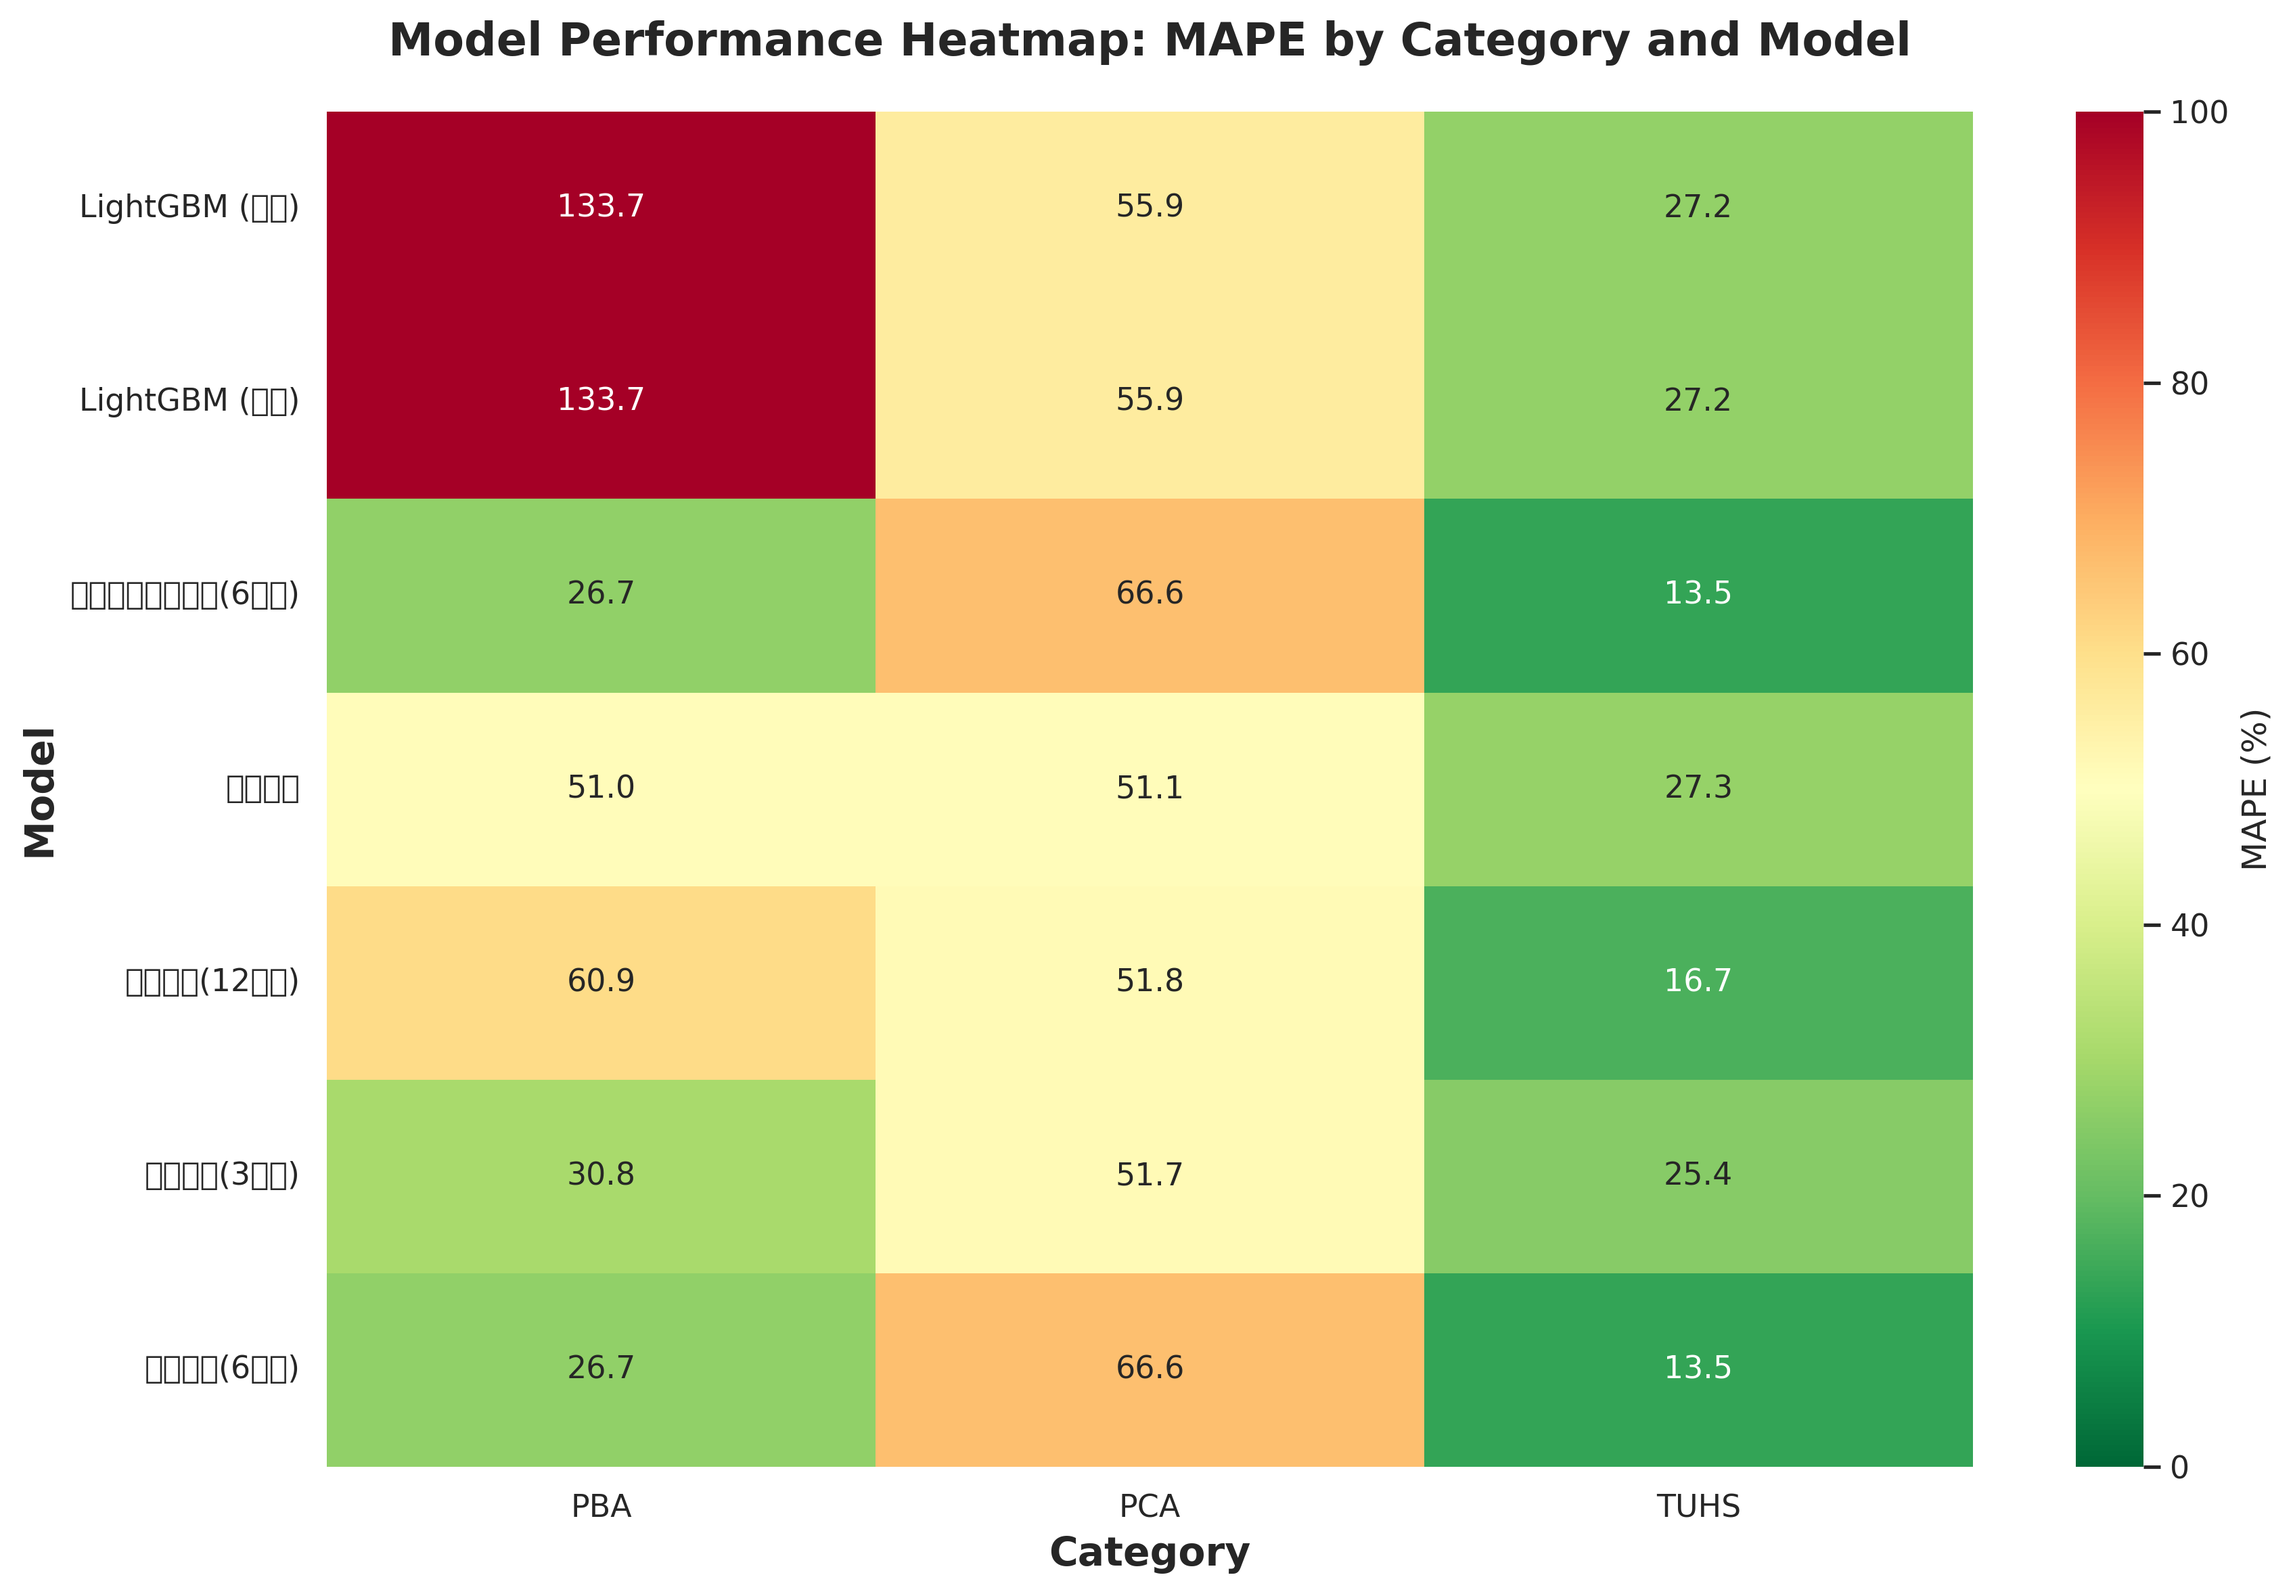
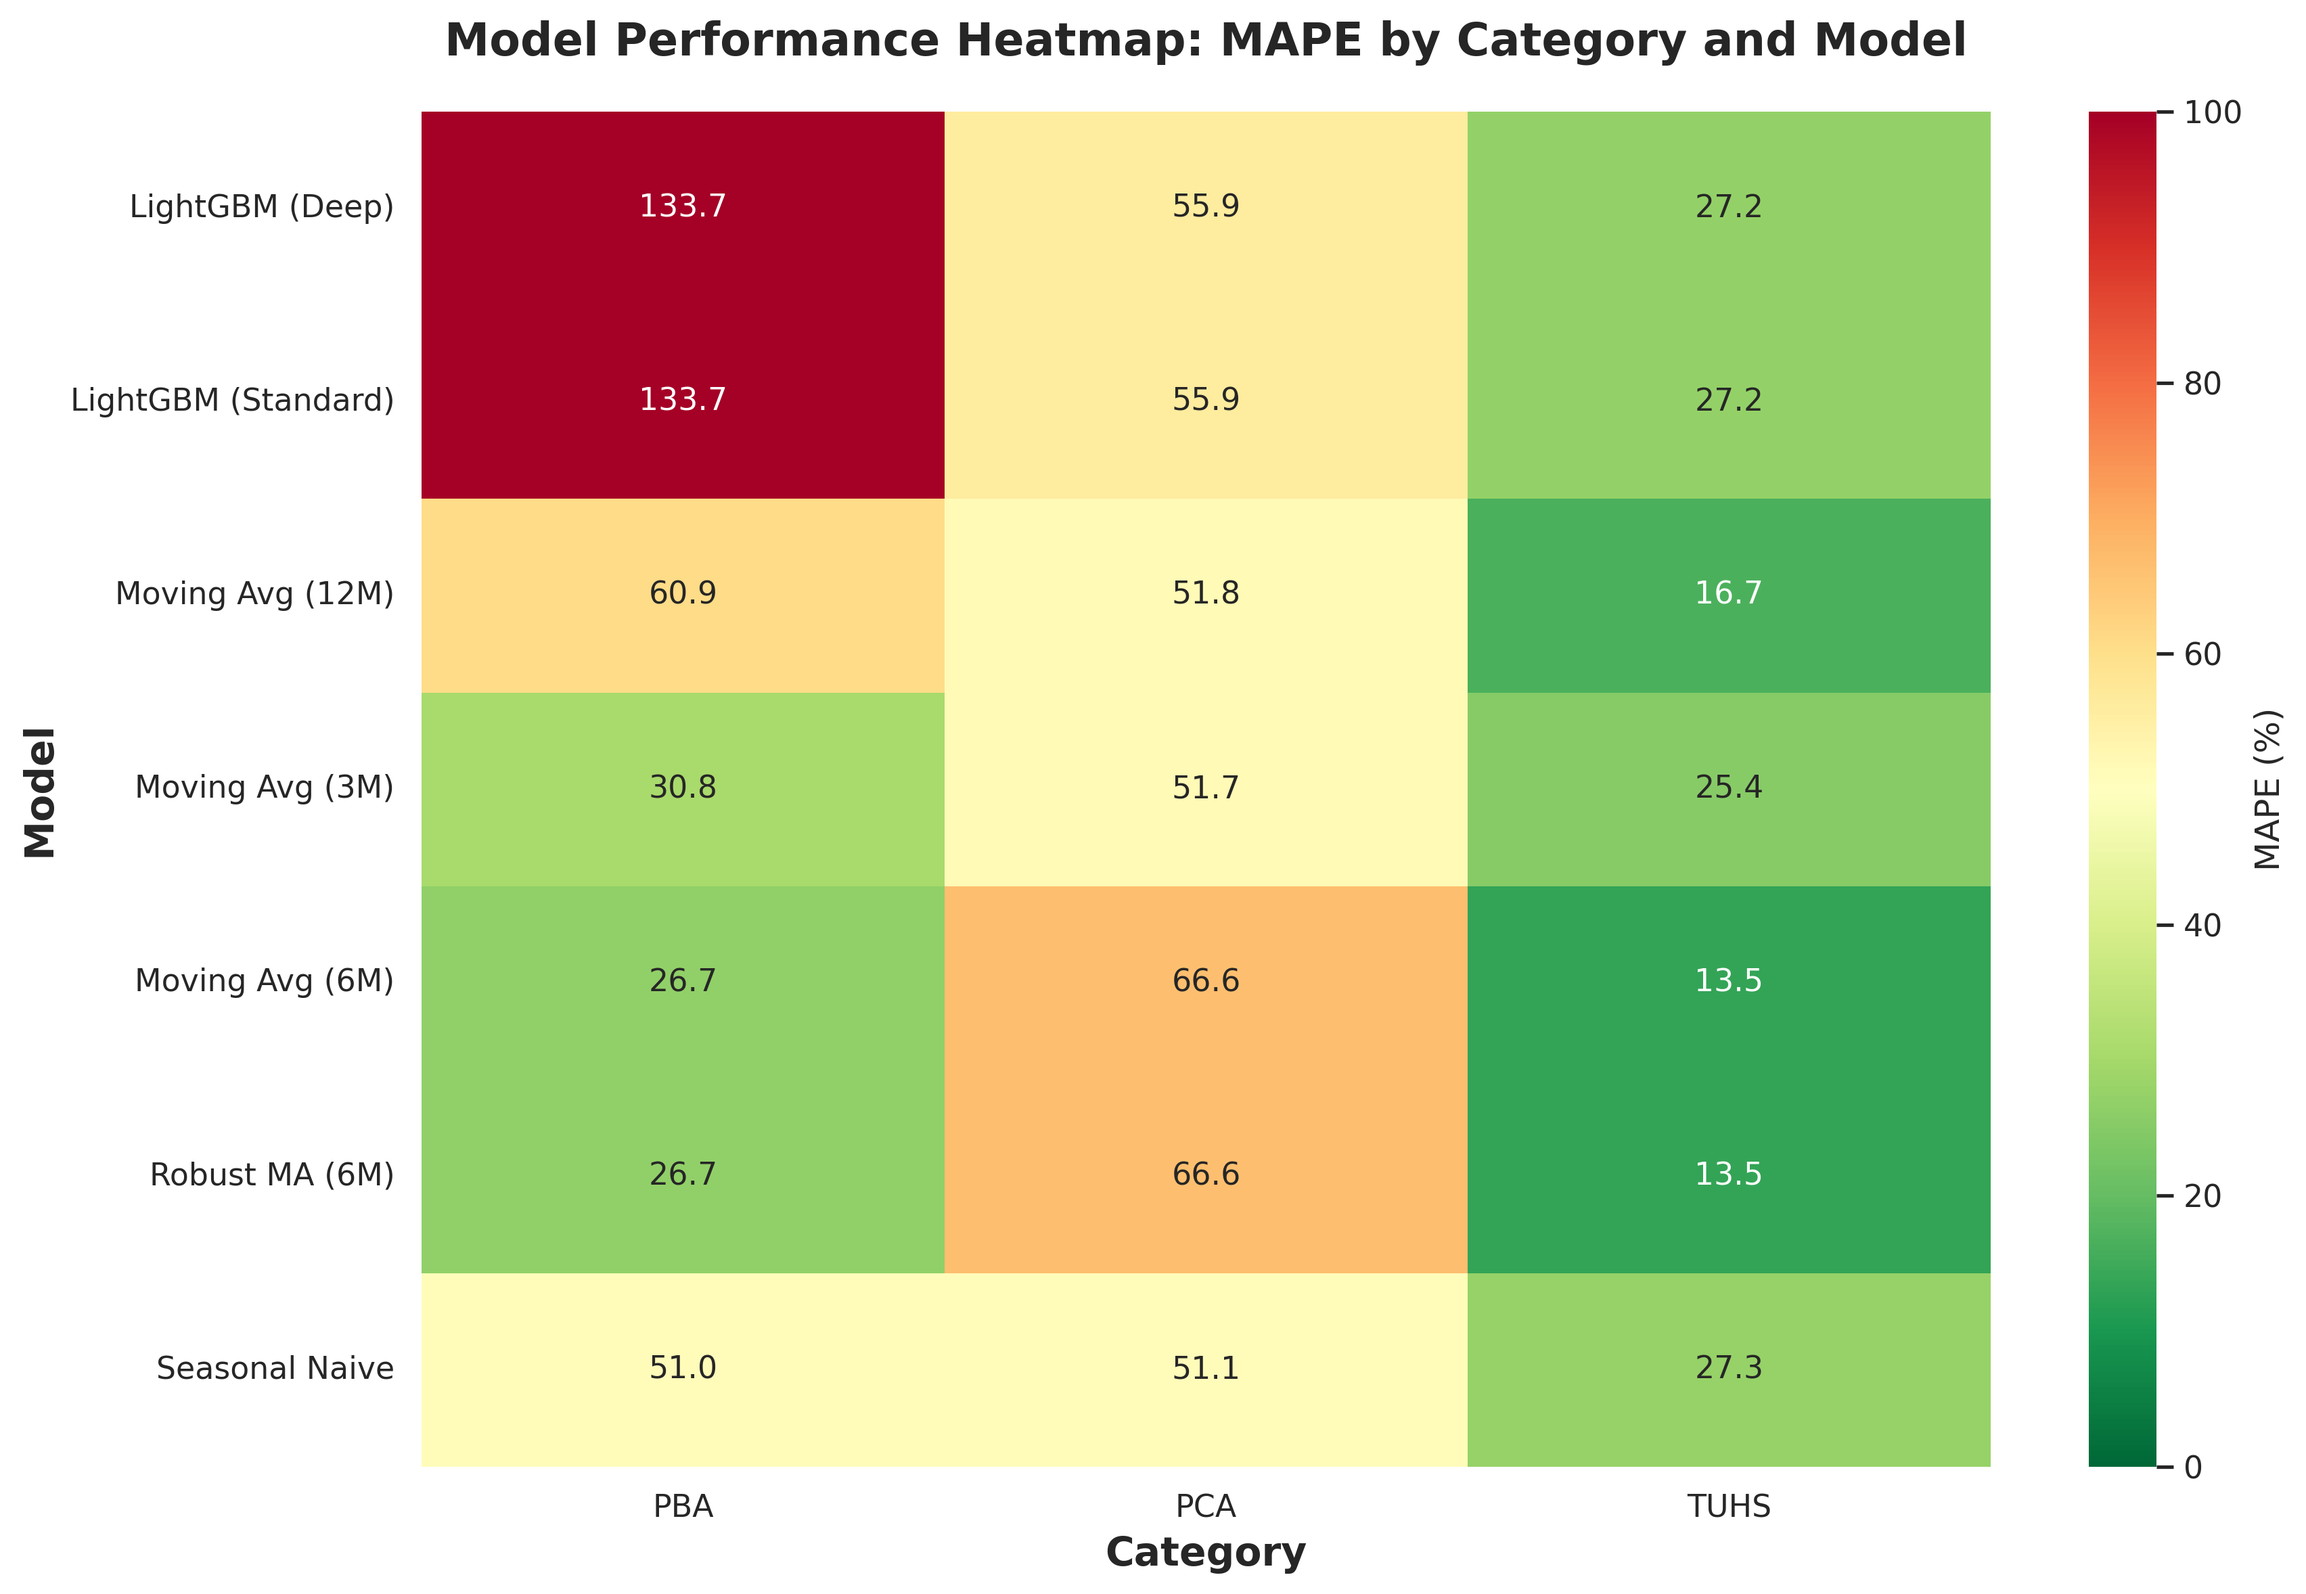
ヒートマップのモデル名を英語表記に修正
overall_heatmap.pngの縦軸（Model）に表示されるモデル名が文字化けしていた問題を修正しました。

修正内容:
- CSVから読み込んだ日本語のモデル名を英語に変換するマッピングを追加
- マッピング: 移動平均 → Moving Avg, 前年同月 → Seasonal Naive, など
- ヒートマップを含む全グラフを再生成

🤖 Generated with [Claude Code](https://claude.com/claude-code)

diff --git a/create_visualizations.py b/create_visualizations.py
@@ -236,6 +236,18 @@ def plot_overall_summary(save_dir: Path):
         print("  評価結果CSVが見つかりません")
         return
 
+    # モデル名を英語に変換
+    model_name_mapping = {
+        '移動平均(3か月)': 'Moving Avg (3M)',
+        '移動平均(6か月)': 'Moving Avg (6M)',
+        '移動平均(12か月)': 'Moving Avg (12M)',
+        'ロバスト移動平均(6か月)': 'Robust MA (6M)',
+        '前年同月': 'Seasonal Naive',
+        'LightGBM (標準)': 'LightGBM (Standard)',
+        'LightGBM (深層)': 'LightGBM (Deep)'
+    }
+    results_df['モデル名'] = results_df['モデル名'].map(model_name_mapping).fillna(results_df['モデル名'])
+
     # ===================================================================
     # グラフ1: カテゴリ別・モデル別MAPE比較（ヒートマップ）
     # ===================================================================
